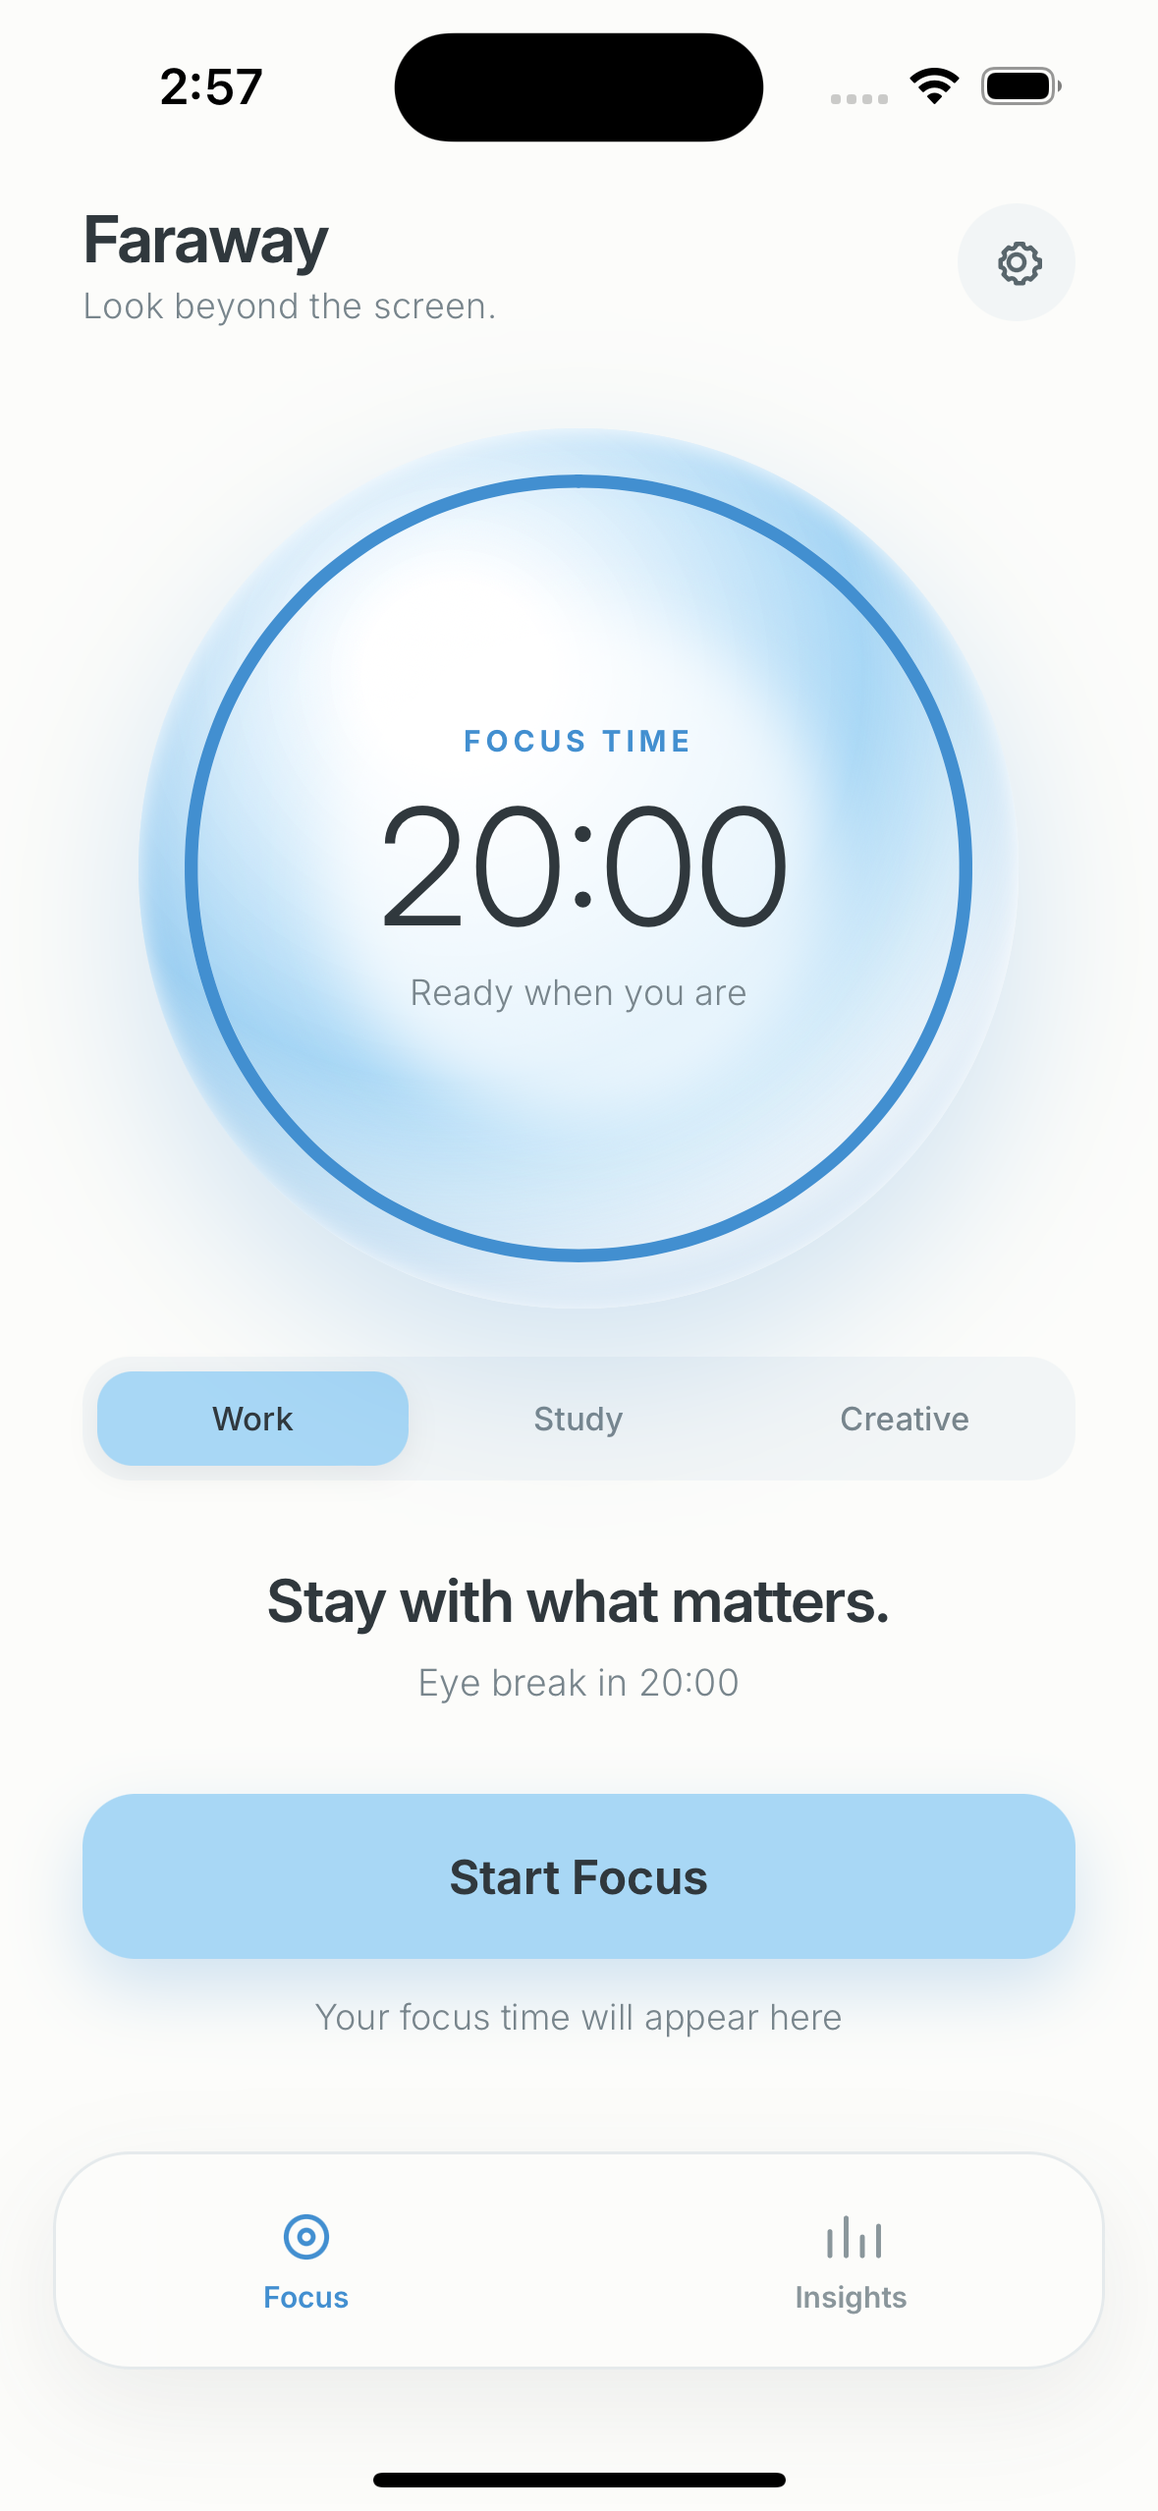
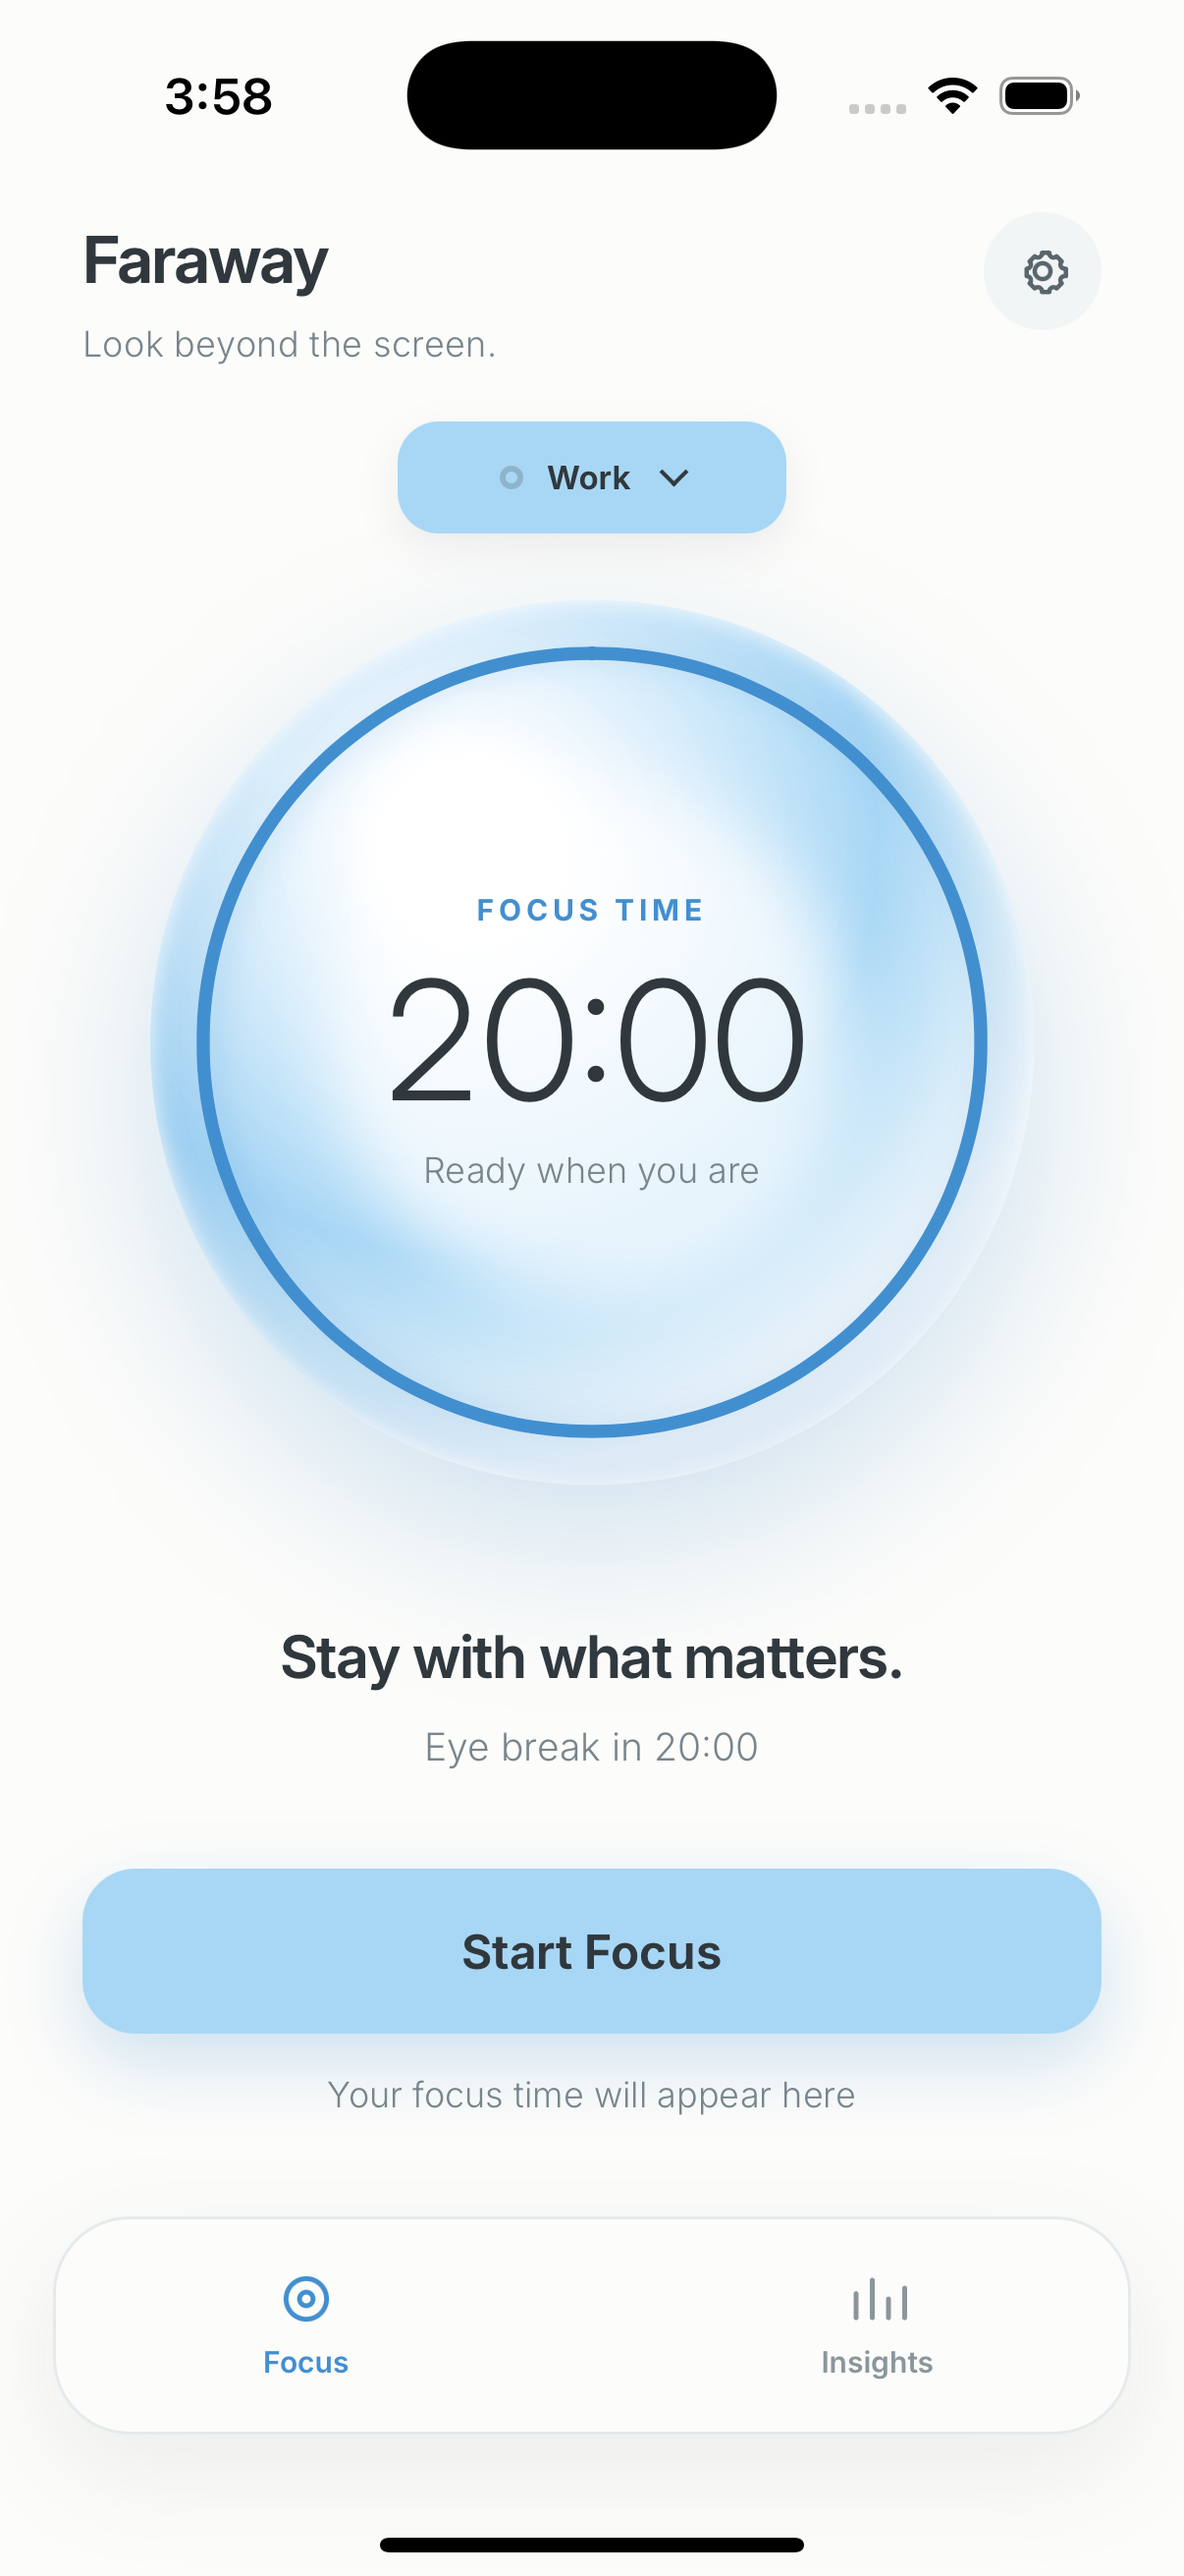
Record 0.1.3 CI and iOS simulator evidence

diff --git a/docs/ACCEPTANCE.md b/docs/ACCEPTANCE.md
@@ -2,7 +2,7 @@
 
 ## 验收范围
 
-本清单覆盖 Android、iOS 和 Web 三个运行面。Android 已在本地 API 33 模拟器完成 0.1.3 的界面与关键交互验收；iOS 模拟器由 GitHub Actions 的 macOS 14 runner 构建、安装并启动，但本地没有 Mac，因此真机安装与运行仍需在 iPhone 或 Mac 上补充验证。
+本清单覆盖 Android、iOS 和 Web 三个运行面。Android 已在本地 API 33 模拟器完成 0.1.3 的界面与关键交互验收；iOS 模拟器由 GitHub Actions 的 macOS 15 runner 构建、安装并启动，但本地没有 Mac，因此真机安装与运行仍需在 iPhone 或 Mac 上补充验证。
 
 验收目标不是只看「能打开」，而是同时确认：
 
@@ -18,7 +18,7 @@
 | 项目     | 本地验收                                            | 发布验证                                            |
 | -------- | --------------------------------------------------- | --------------------------------------------------- |
 | Android  | Android 13 / API 33 x86_64 模拟器，1080 × 2400      | GitHub Actions Ubuntu + JDK 17 + Android SDK 34     |
-| iOS      | 未在本地运行（Windows 无 Xcode）                    | GitHub Actions macOS 14：模拟器构建、启动与截图通过 |
+| iOS      | 未在本地运行（Windows 无 Xcode）                    | GitHub Actions macOS 15：模拟器构建、启动与截图通过 |
 | Web      | Microsoft Edge / Chromium，390 × 844 与 1440 × 1000 | GitHub Actions Chromium 移动端 E2E                  |
 | 应用版本 | 0.1.3（versionCode 4 / build 4）                    | 同左                                                |
 | 日期     | 2026-11-01                                          | 以 release workflow 实际运行日期为准                |
@@ -182,16 +182,16 @@ iOS 模拟器由 CI 启动并截图，界面与安全区正常：
 
 ## 自动化证据
 
-| 检查        | 命令                      | 结果                   |
-| ----------- | ------------------------- | ---------------------- |
-| 单元测试    | `npm test`                | 19 passed              |
-| 移动端 E2E  | `npm run test:e2e`        | 7 passed               |
-| 类型        | `npm run typecheck`       | passed                 |
-| Lint        | `npm run lint`            | passed                 |
-| 格式        | `npm run format:check`    | passed                 |
-| Android APK | `./gradlew assembleDebug` | BUILD SUCCESSFUL       |
-| iOS 模拟器  | GitHub Actions macOS      | 构建、启动、截图均成功 |
-| CI 全流程   | GitHub Actions            | [CI_RUN_LINK]          |
+| 检查        | 命令                      | 结果                                                                            |
+| ----------- | ------------------------- | ------------------------------------------------------------------------------- |
+| 单元测试    | `npm test`                | 19 passed                                                                       |
+| 移动端 E2E  | `npm run test:e2e`        | 7 passed                                                                        |
+| 类型        | `npm run typecheck`       | passed                                                                          |
+| Lint        | `npm run lint`            | passed                                                                          |
+| 格式        | `npm run format:check`    | passed                                                                          |
+| Android APK | `./gradlew assembleDebug` | BUILD SUCCESSFUL                                                                |
+| iOS 模拟器  | GitHub Actions macOS      | 构建、启动、截图均成功                                                          |
+| CI 全流程   | GitHub Actions            | [run 41323476011](https://github.com/Phanstal/Faraway/actions/runs/41323476011) |
 
 ## 发布产物验收
 
@@ -205,6 +205,6 @@ iOS 模拟器由 CI 启动并截图，界面与安全区正常：
 ## 发布记录
 
 - Release：[Faraway v0.1.3](https://github.com/Phanstal/Faraway/releases/tag/v0.1.3)（[RELEASE_RUN_LINK]）
-- CI：[CI_RUN_LINK]
+- CI：[run 41323476011](https://github.com/Phanstal/Faraway/actions/runs/41323476011)
 - 本地 Android 验收：API 33 模拟器，`0.1.3` APK 安装成功；模式下拉、停止确认、重置、持久化与安全区已验证。
 - iOS：模拟器构建与启动截图通过；真机安装需要用户自己的 Apple 签名，未在本机验证。

diff --git a/README.md b/README.md
@@ -61,7 +61,7 @@ Android 原生运行（API 33 模拟器，1080 × 2400）：
 
 ![Android 原生专注页](docs/screenshots/android-focus.png)
 
-iOS 模拟器运行（GitHub Actions macOS 14，iPhone 15 Pro）：
+iOS 模拟器运行（GitHub Actions macOS 15，iPhone 16 Pro 模拟器）：
 
 ![iOS 模拟器专注页](docs/screenshots/ios-simulator-home.png)
 
